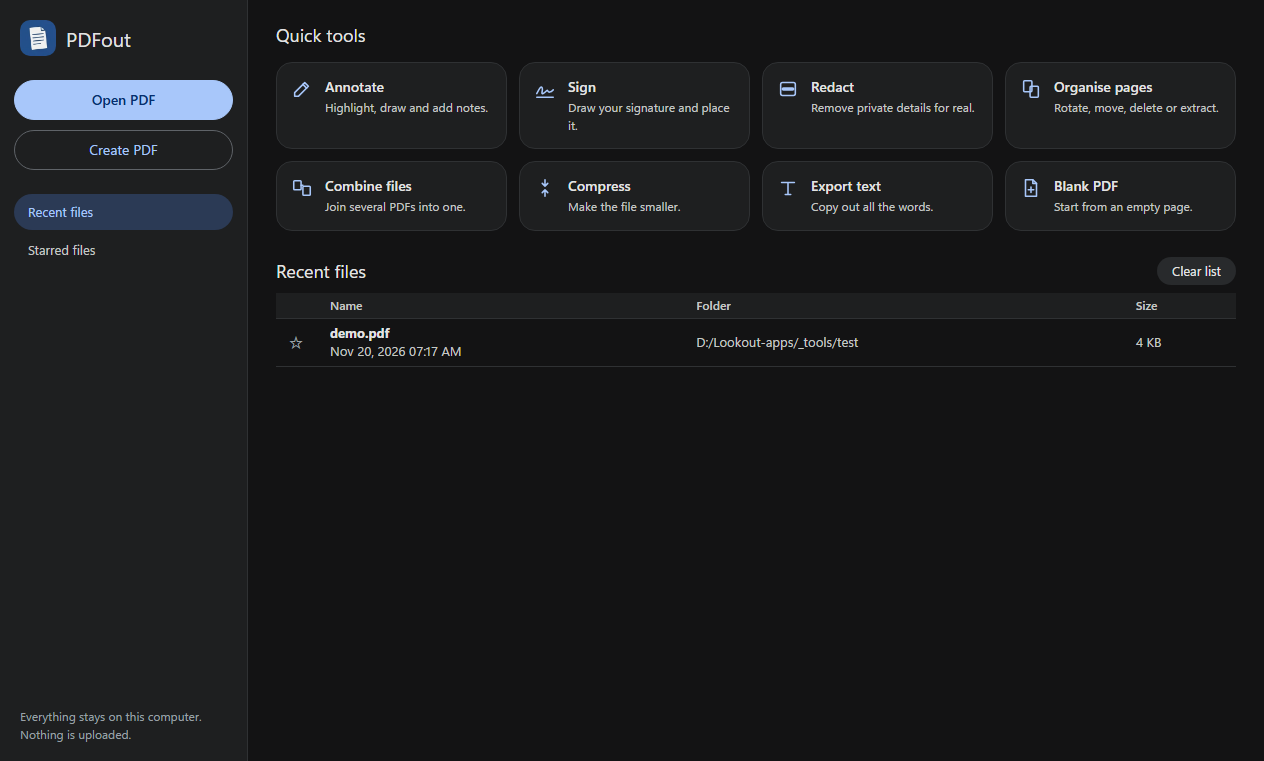
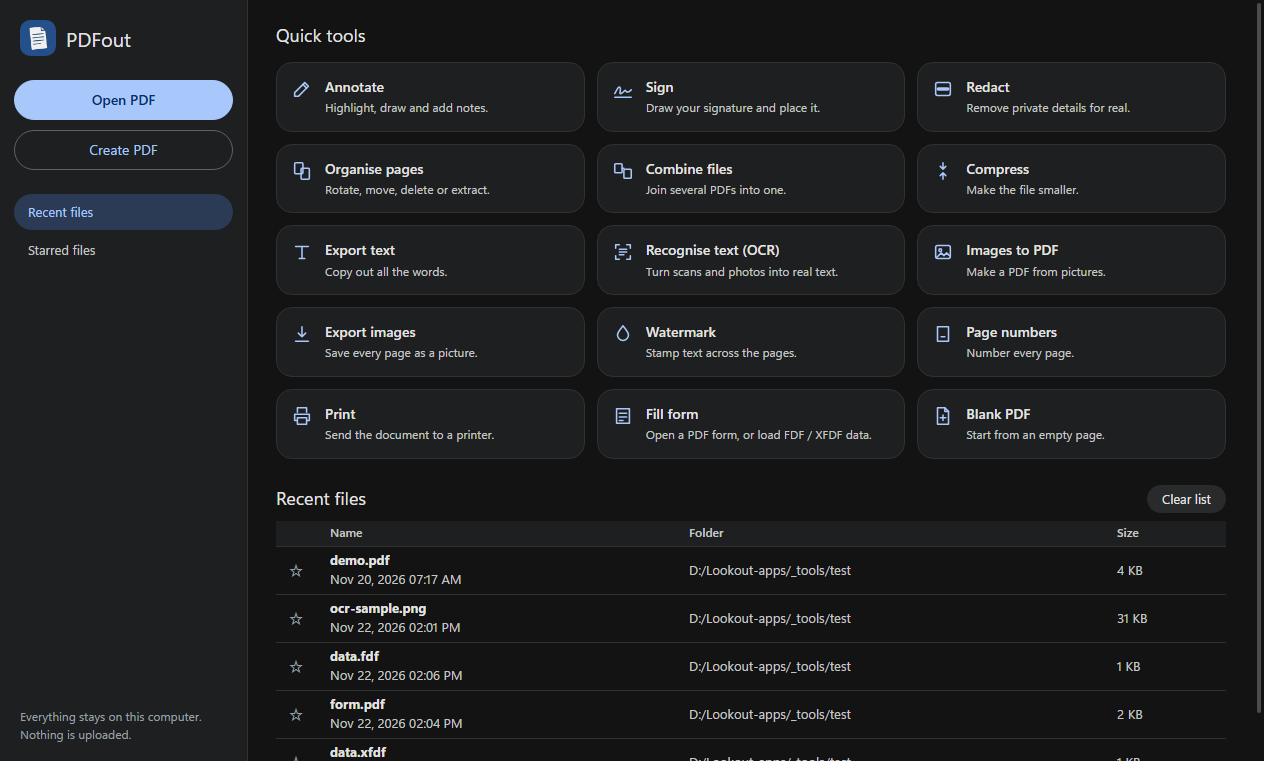
docs: PDFout OCR, new tools and screenshots

diff --git a/README.md b/README.md
@@ -92,7 +92,7 @@ Install, open, update and remove all ten apps from one window. **[Download the l
 - **Sign:** Draw your signature with a mouse, pen or touch screen and place it anywhere on a page; Resize the signature to fit the line
 
 <details>
-<summary><b>All 6 screenshots</b></summary>
+<summary><b>All 10 screenshots</b></summary>
 
 **The home screen.** PDFout opens on a start screen with quick tools, your recent files and a starred tab.
 
@@ -117,6 +117,16 @@ Install, open, update and remove all ten apps from one window. **[Download the l
 **What you get out.** The current page exported as a sharp PNG image, ready to drop into a slide, a message or another document.
 
 <img src="assets/shots/pdfout/05-exported-page-image.png" alt="What you get out" width="100%">
+
+**Text recognition (OCR).** Open a scan or photo, choose Convert > OCR (English, Thai or both) and PDFout reads the words offline. Copy them, save them as text, keep them as a hidden searchable layer, or turn them into editable text boxes.
+
+<img src="assets/shots/pdfout/06-ocr-dialog.png" alt="OCR options" width="100%">
+
+<img src="assets/shots/pdfout/07-ocr-result.png" alt="OCR result" width="100%">
+
+<img src="assets/shots/pdfout/08-text-boxes-and-watermark.png" alt="Text boxes and watermark" width="100%">
+
+<img src="assets/shots/pdfout/09-ocr-exported-page.png" alt="Exported page" width="100%">
 
 </details>
 
@@ -838,7 +848,7 @@ Every Lookout app follows the same design, so learning one teaches you the rest.
 
 ## What is new
 
-**Pageout is now PDFout**, with a home screen (quick tools, recent and starred files). Every app also now shows its own name and icon in Task Manager and the taskbar instead of "Electron".
+**Pageout is now PDFout**, with a home screen (quick tools, recent and starred files), offline OCR for English and Thai, picture and FDF/XFDF support, Print, Watermark, Page numbers and Export-all-pages-as-images. Every app also now shows its own name and icon in Task Manager and the taskbar instead of "Electron".
 
 Every app now has a new look inspired by Google AI Studio, Colab and Gemini: a calm dark charcoal theme, rounded pill buttons, a soft blue accent and roomier spacing. Each app has a colour logo, shown in the Start menu and in the launcher. Every README was rewritten to explain, in plain words, what the app does, who it is for and how to start. All screenshots were taken again.
 
